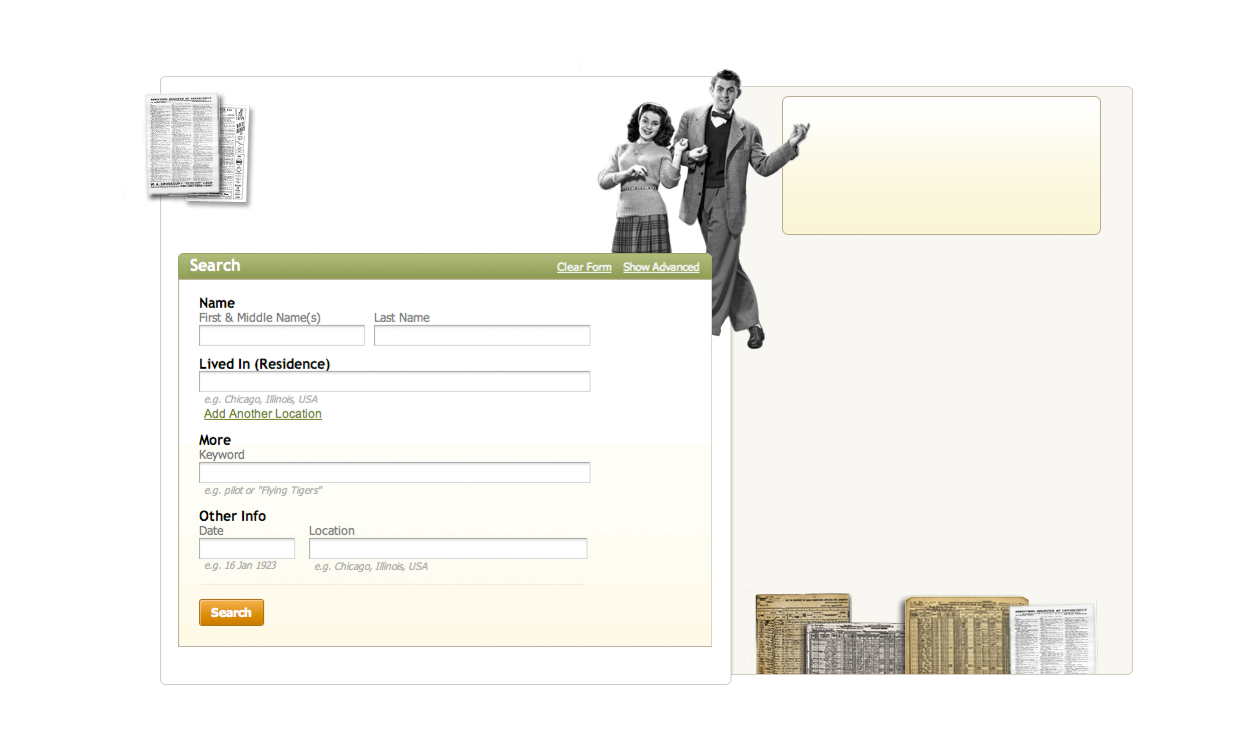
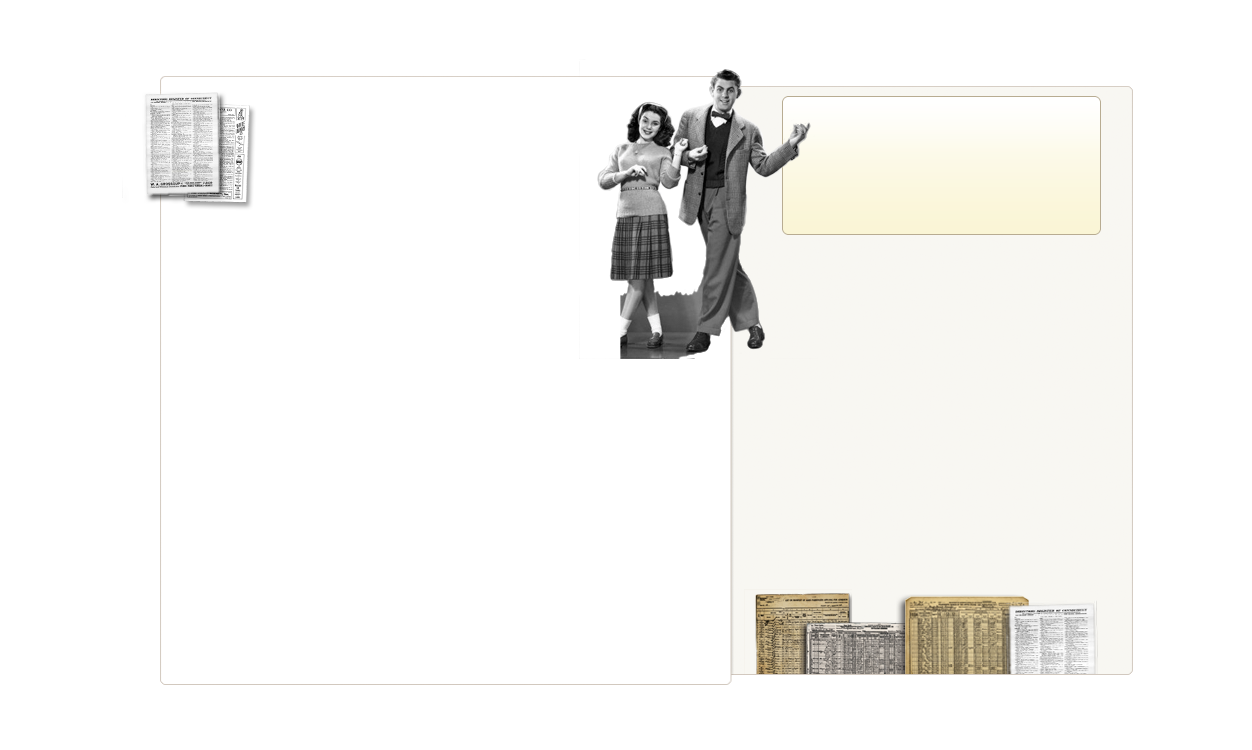
upgrade image,starting apply form, in html and css

diff --git a/style.css b/style.css
@@ -122,10 +122,67 @@ html {
 						padding:30px 40px 20px; 
 						position:relative; 
 						margin:10px 0 0 -30px;
-						border:1px solid  #000000;
+						border:1px solid  #bdb399;
 						float:left;
+				     -webkit-border-radius:5px;
+					 -moz-border-radius:5px;
+						  border-radius:5px;
 
 				}
+				.form
+				{
+						width:544px; 
+						height:395px; 
+						position:relative; 
+						margin:-30px 0 0 -40px;
+						
+						float:left;
+						
+
+				}
+				.top-form
+				{
+						width:525px; 
+						height:12px; 
+						position:relative; 
+						padding:5px 10px 10px; 
+						font:12px/1.1 'TahomaNormal', Helvetica, Helvetica Neue, Arial, sans-serif;
+						color:#fff;
+						background-color:#99a660;
+						float:left;
+						-webkit-border-radius:5px;
+					 -moz-border-radius:5px;
+						  border-radius:5px;
+
+				}
+				.text-top-form-right
+				{
+						width:135px; 
+						height:25px; 
+						position:relative; 
+						
+						font:16px/1.1 'TahomaNormal', Helvetica, Helvetica Neue, Arial, sans-serif;
+						color:#fff;
+						margin:0 0 0 0px;
+						float:left;
+						font-weight:bold;
+						
+
+				}
+				.text-top-form-left
+				{
+						width:185px; 
+						height:25px; 
+						position:relative; 
+						
+						font:11px/1.1 'TahomaNormal', Helvetica, Helvetica Neue, Arial, sans-serif;
+						color:#fff;
+						margin:0 0 0 0px;
+						float:right;
+						text-decoration:underline;
+
+				}
+				
 				.census 
 				{
 						width:285px; 
@@ -147,7 +204,7 @@ html {
 						text-decoration:underline;
 				}
 		
-		input {
+		.btn-click {
 	
 	 width:242px; height:42px;
 	 margin: -14px 0 0 6px;
@@ -157,6 +214,7 @@ html {
 	 color:#fff;
 	 font-weight:bold;
 	 border:0px;
+	 
 	 
 	   -webkit-box-shadow:1px 1px 1px 1px #a76c0d, 1px 1px 0 #a76c0d, 1px 1px 0 #a76c0d;
           -moz-box-shadow:1px 1px 1px 1px #a76c0d, 1px 1px 0 #a76c0d, 1px 1px 0 #a76c0d;
@@ -169,14 +227,14 @@ html {
 		   -o-transition: background-position 0.2s linear;
 			  transition: background-position 0.2s linear;
 	
-	  background-color: #5d94cc;
-	  background-image: -webkit-gradient(linear, left top, left bottom, color-stop(0%, #5d94cc), color-stop(100%, #387bc0));
+	  background-color: #d68900;
+	  background-image: -webkit-gradient(linear, left top, left bottom, color-stop(0%, #f1ab40), color-stop(100%, #cd7f00));
 	  background-image: -webkit-linear-gradient(top, #f1ab40, #cd7f00);
 	  background-image:    -moz-linear-gradient(top, #f1ab40, #cd7f00);
 	  background-image:     -ms-linear-gradient(top, #f1ab40, #cd7f00);
 	  background-image:      -o-linear-gradient(top, #f1ab40, #cd7f00);
 	  background-image:         linear-gradient(top, #f1ab40, #cd7f00);
-	  filter: progid:DXImageTransform.Microsoft.gradient(startColorstr='#5d94cc', endColorstr='#387bc0', GradientType=0);
+	  filter: progid:DXImageTransform.Microsoft.gradient(startColorstr='#f1ab40', endColorstr='#cd7f00', GradientType=0);
 	  background-repeat: repeat-x;
 	
 	  -webkit-border-radius:5px;
@@ -185,5 +243,40 @@ html {
 
 }
 		
+		input {
+	
+	 width:242px; height:21px;
+	 margin: -14px 0 0 6px;
+	 float:left;
+	 text-decoration:none;
+	 font:15px/1.1 'TahomaNormal', Helvetica, Helvetica Neue, Arial, sans-serif;
+	 color:#fff;
+	 font-weight:bold;
+	 border:1px solid #dadada;
+	 
+	   -webkit-box-shadow:2px 2px 2px  #b0b0b0  inset;
+          -moz-box-shadow:2px 2px 2px  #b0b0b0 inset;
+               box-shadow:2px 2px 2px  #b0b0b0 inset;
+	  
+	  padding:2px 4px;
+	  -webkit-transition: background-position 0.2s linear;
+		 -moz-transition: background-position 0.2s linear;
+		  -ms-transition: background-position 0.2s linear;
+		   -o-transition: background-position 0.2s linear;
+			  transition: background-position 0.2s linear;
+	
+	  background-color: #fff;
+}
+
+label{
+	 font-weight:bold;
+	 font:15px/1.1 'TahomaNormal', Helvetica, Helvetica Neue, Arial, sans-serif;
+}
+.form-field{
+	 width:490px; 
+	 height:350px;
+	 border:1px solid #06F;
+	 margin:35px 0 0 22px;
+}
 		
 		

diff --git a/home.html b/home.html
@@ -36,7 +36,7 @@
 
 	                           		 <h2> An offer so good, it will take you back to the 50s.</h2><br /><br />
                                      
-                                     <input name="" type="button" onClick="window.open('xxxx.com')" value="Click Here for more">
+                                     <input name="" type="button" class="btn-click" onClick="window.open('xxxx.com')" value="Click Here for more">
 							
 
 
@@ -44,7 +44,38 @@
 
 	                                  <div class="search">
 
-	                             dd
+	                                  <div class="form">
+                                      
+                                      <div class="top-form">
+                                     <span class="text-top-form-right"> Search   </span>
+                                      
+                                      <span class="text-top-form-left"> Clear Form&nbsp; &nbsp; &nbsp; &nbsp; Show Advanced </span>
+                                      
+                                      </div>
+                                      
+                                      
+                                      <div class="form-field">
+                                      <form>
+                                          <label for="name">Name</label><br />First & Middle Name(s)<br /><br />
+                                          <input name="email" type="text" id="email2" size="40">
+                                        
+                                          <br /><br />
+                                          <label for="lived">Lived in (Residence)</label><br /><br /><br />
+                                          <input name="email" type="text" id="email2" size="40">
+                                           <br /><br />e.g. Chicago, Illinois, USA<br /> Add Another location<br /><br />
+                                          <label for="more">More</label><br />Keyword<br /><br />
+                                          <input name="email" type="text" id="email2" size="40">
+                                           <br /><br />
+                                          <label for="other">Other Info</label><br />Date<br /><br />
+                                          <input name="email" type="text" id="email2" size="40"><br /><br />e.g. 16 Jan 1923
+                                          
+                                        </form>
+                                        
+                                        </div>
+                                      
+                                      
+                                      </div>
+                                 
 
 
 	                                </div>  
@@ -60,6 +91,8 @@
 											Improved indexes for many censuses<br />
 											The 1940 Census Substitute<br />
 											The 1950 Census Substitute<br /><br />
+                                            
+                                            
                                           <span class="census-link">  Search our census collections </span></strong>
 
 
